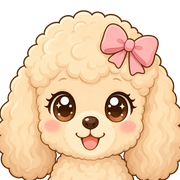
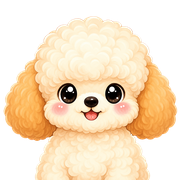
fix(world): seat comparator 공용화 + 라떼/햄스터 이미지 교체 (마감)
P2 (codex 4차 리뷰 HIGH 해결)
- matcher.js에 compareReadyForSeat helper 추가 (candidateSince -> id tie-break)
- _syncProposalForZone / _handleMatchStart / tryFormMatch 모두 동일 comparator 사용
  -> 동률 시 모달 멤버와 launch 멤버 불일치 가능성 제거
- tryFormMatch 동률 tie-break 회귀 테스트 추가 (43 pass 0 fail)

이미지
- 라떼 강아지 portrait/sheet, 푸딩 햄스터 sheet 사용자 수동 교체본 반영

diff --git a/worker/src/world.js b/worker/src/world.js
@@ -14,7 +14,7 @@
 
 import { GAME_ZONES, getZone, findZoneAt } from './worldZones.js';
 import { CHARACTERS, isValidCharacterId, randomCharacterId } from './characters.js';
-import { applyZonePresence, tryFormMatch, resolveProposal, PLAYER_STATUS } from './matcher.js';
+import { applyZonePresence, tryFormMatch, resolveProposal, compareReadyForSeat, PLAYER_STATUS } from './matcher.js';
 import { toGameCharacterId } from './characters.js';
 
 // Mirrors GAME_PATHS in worker/src/room.js — keep these aligned so a new
@@ -463,14 +463,11 @@ export class WorldChannel {
         memberSockets.push({ ws, attach: a });
       }
     }
-    // Deterministic seating order: primary by candidateSince (earliest first),
-    // tie-break by sessionId so ordering doesn't depend on WebSocket iteration.
-    memberSockets.sort((a, b) => {
-      const sa = a.attach.candidateSince ?? Number.MAX_SAFE_INTEGER;
-      const sb = b.attach.candidateSince ?? Number.MAX_SAFE_INTEGER;
-      if (sa !== sb) return sa - sb;
-      return String(a.attach.sessionId).localeCompare(String(b.attach.sessionId));
-    });
+    // Deterministic seating order via the shared matcher comparator.
+    memberSockets.sort((a, b) => compareReadyForSeat(
+      { id: a.attach.sessionId, candidateSince: a.attach.candidateSince },
+      { id: b.attach.sessionId, candidateSince: b.attach.candidateSince },
+    ));
 
     // Enforce maxPlayers — earliest arrivals fill the seats. Anyone over
     // capacity stays INTENT_READY in the zone but is not broadcast as a
@@ -574,17 +571,19 @@ export class WorldChannel {
     if (!zone) return this._cancelProposal(proposal, 'invalid');
 
     // Collect with candidateSince so we can cap at maxPlayers fairly
-    // (earliest arrivals get the seats).
+    // (earliest arrivals get the seats). Comparator MUST match the one used
+    // by `_syncProposalForZone` so the host's modal view and the launch set
+    // are identical when candidateSince ties occur.
     const ready = [];
     for (const w of this.state.getWebSockets()) {
       const a = w.deserializeAttachment();
       if (a?.sessionId
           && a.status === PLAYER_STATUS.INTENT_READY
           && a.currentZoneId === proposal.zoneId) {
-        ready.push({ id: a.sessionId, since: a.candidateSince ?? 0 });
+        ready.push({ id: a.sessionId, candidateSince: a.candidateSince });
       }
     }
-    ready.sort((a, b) => a.since - b.since);
+    ready.sort(compareReadyForSeat);
     const seatedIds = ready.slice(0, zone.maxPlayers).map((r) => r.id);
 
     if (seatedIds.length < zone.minPlayers) {

diff --git a/worker/src/matcher.js b/worker/src/matcher.js
@@ -80,6 +80,18 @@ export function clearProposed(prev, zone, now) {
   return { ...prev, status: PLAYER_STATUS.ROAM, currentZoneId: null, candidateSince: null };
 }
 
+/* Deterministic seat ordering: earliest candidateSince wins; ties broken by
+ * id so iteration order can't shuffle membership between two equivalent
+ * resolutions. Exported so the runtime WorldChannel paths can use the SAME
+ * comparator and the proposal view stays consistent with the launch set.
+ */
+export function compareReadyForSeat(a, b) {
+  const sa = a.candidateSince ?? Number.MAX_SAFE_INTEGER;
+  const sb = b.candidateSince ?? Number.MAX_SAFE_INTEGER;
+  if (sa !== sb) return sa - sb;
+  return String(a.id).localeCompare(String(b.id));
+}
+
 /* Pull a single match group out of the players currently intent_ready in a
  * zone. Returns null if not enough players, otherwise an object describing
  * the group (caller is responsible for transitioning the players to PROPOSED
@@ -91,7 +103,7 @@ export function clearProposed(prev, zone, now) {
 export function tryFormMatch(players, zone) {
   const ready = players
     .filter((p) => p.status === PLAYER_STATUS.INTENT_READY && p.currentZoneId === zone.id)
-    .sort((a, b) => (a.candidateSince ?? 0) - (b.candidateSince ?? 0));
+    .sort(compareReadyForSeat);
 
   if (ready.length < zone.minPlayers) return null;
   const take = Math.min(ready.length, zone.maxPlayers);
